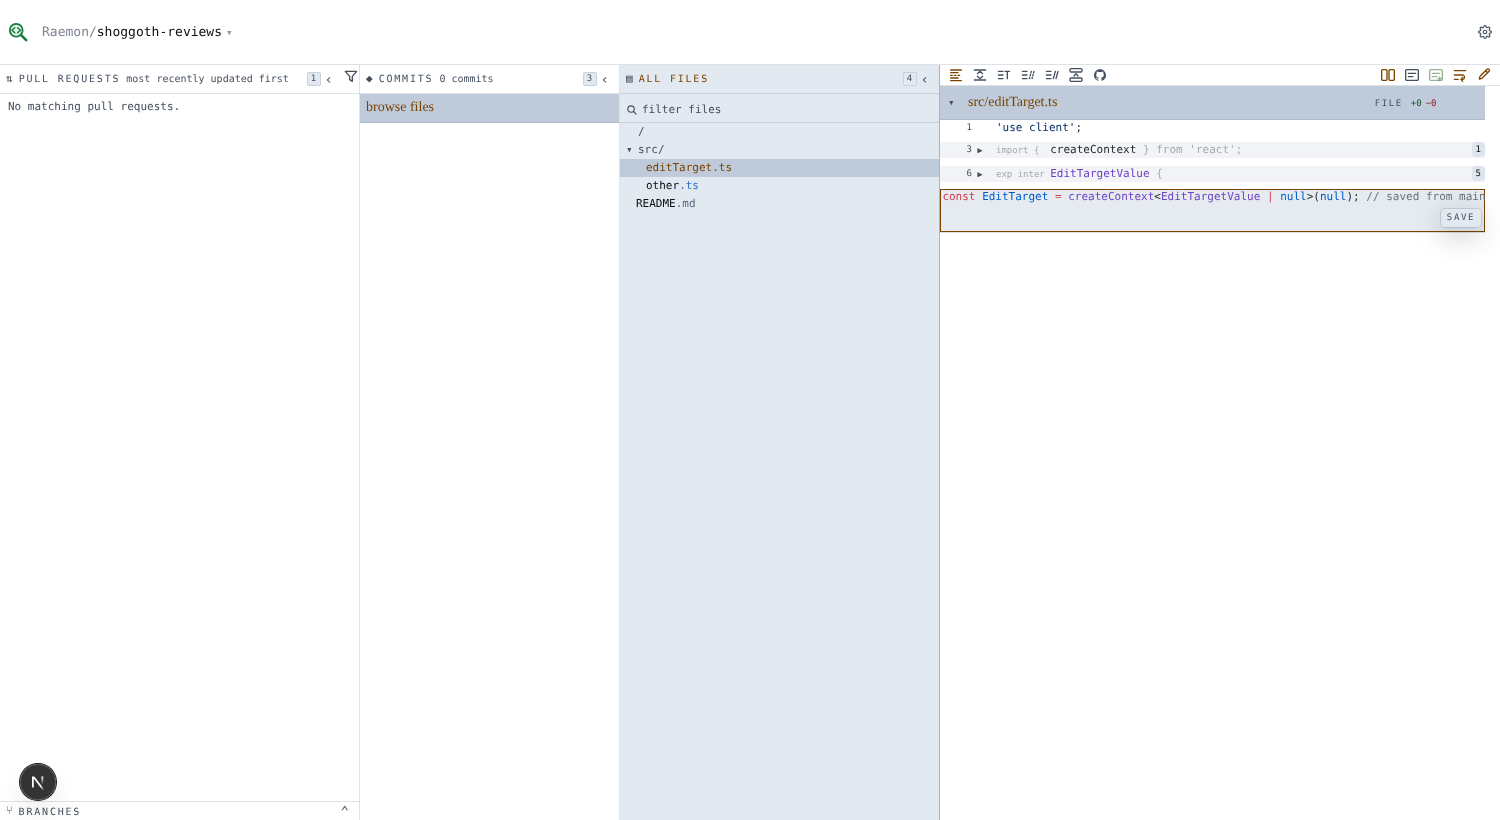
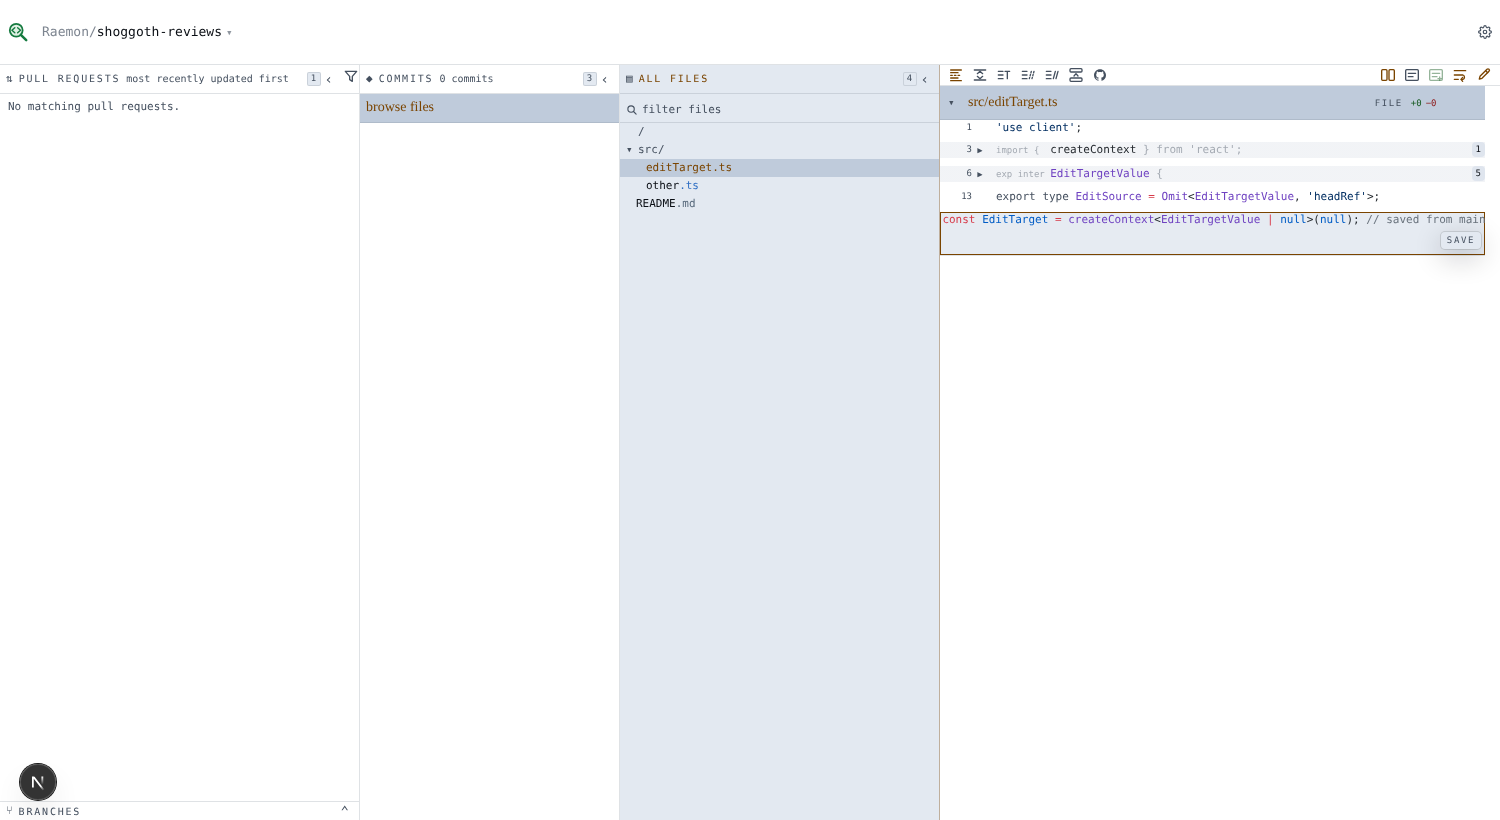
Offer main-branch editing only to pushers; tidy edit plumbing
Gate the all-files editor on the repository's push permission, always
reset the hunk editor after a refresh, and share the contents URL helper.

Claude-Session: https://claude.ai/code/session_01Wrqq5m96hAuHyC7tVPyptK

Changed region(s): [[0.6133, 0.2134, 1.0, 0.3354]]

diff --git a/src/features/pull-requests/RepoFileReader.tsx b/src/features/pull-requests/RepoFileReader.tsx
@@ -2,7 +2,6 @@
 
 import { useMemo } from 'react';
 import { DiffPanes } from './DiffPanes';
-import type { EditTargetValue } from './editTarget';
 import { isImagePath } from './imageFiles';
 import { fileTextPath } from './pullPaths';
 import type { FileText } from './pullRequests';
@@ -32,16 +31,24 @@ export function RepoFileReader({
   const wantsText = !isImagePath(path);
   const route = wantsText ? fileTextPath(owner, repo, refName, path) : null;
   const { data, error, reload } = useCachedJson<FileText>(route, token, ready);
-  // A commit moves refName; without this the open editor unmounts while the new text loads.
+  // Keeps the editor mounted while text for the post-commit refName loads.
   const text = useLastKnown(data, path);
   const fileSet = useMemo(() => readableFileSet(refName, path, wantsText, text), [refName, path, wantsText, text]);
-  const edits = reloadFiles ? defaultBranchEdits(() => showCommitted(reloadFiles, owner, repo, path, token)) : null;
+  const onCommitted = reloadFiles && (() => refreshAfterCommit(reloadFiles, owner, repo, path, token));
 
   if (error) return <PaneStatusLine tone="error" className="flex-1" onRetry={reload}>{error}</PaneStatusLine>;
   if (wantsText && text?.text === null) return <PaneStatusLine tone="dim" className="flex-1">File too large to show.</PaneStatusLine>;
   return (
     <ReviewThreadProvider owner={owner} repo={repo} number={null}>
-      <DiffPanes owner={owner} repo={repo} fileSet={fileSet} files={fileSet?.files ?? []} selected={path} sortable={false} edits={edits} />
+      <DiffPanes
+        owner={owner}
+        repo={repo}
+        fileSet={fileSet}
+        files={fileSet?.files ?? []}
+        selected={path}
+        sortable={false}
+        editSource={onCommitted && { pull: null, onCommitted }}
+      />
     </ReviewThreadProvider>
   );
 }
@@ -51,11 +58,7 @@ function readableFileSet(refName: string, path: string, wantsText: boolean, data
   return data?.text == null ? null : wholeFileSet(refName, path, data.text);
 }
 
-function defaultBranchEdits(onCommitted: () => Promise<void>): Omit<EditTargetValue, 'headRef'> {
-  return { pull: null, onCommitted };
-}
-
-async function showCommitted(
+async function refreshAfterCommit(
   reloadFiles: () => Promise<RepoFileSet>,
   owner: string,
   repo: string,

diff --git a/src/features/pull-requests/DiffPanes.tsx b/src/features/pull-requests/DiffPanes.tsx
@@ -10,7 +10,7 @@ import { DiffFileSection } from './DiffFileSection';
 import { DiffLayoutToggle } from './DiffLayoutToggle';
 import type { FolderHeading } from './fileTreeNodes';
 import { FolderHeadingBar } from './FolderHeading';
-import { EditTarget, type EditTargetValue } from './editTarget';
+import { EditTarget, type EditSource } from './editTarget';
 import { ImageThumbnailStrip } from './ImageThumbnailStrip';
 import { imageFilesOf, isImagePath } from './imageFiles';
 import type { ChangedFile, ChangedFileSet } from './pullRequests';
@@ -37,7 +37,7 @@ export function DiffPanes({
   fileSet,
   files,
   selected,
-  edits = null,
+  editSource = null,
   sortable = true,
   headings,
   ref,
@@ -47,7 +47,7 @@ export function DiffPanes({
   fileSet: ChangedFileSet | null;
   files: ChangedFile[];
   selected: string | null;
-  edits?: Omit<EditTargetValue, 'headRef'> | null;
+  editSource?: EditSource | null;
   sortable?: boolean;
   headings?: ReadonlyMap<string, FolderHeading[]>;
   ref?: Ref<DiffPanesHandle>;
@@ -90,7 +90,7 @@ export function DiffPanes({
   if (!fileSet) return <PaneStatusLine tone="dim" className="flex-1">Loading…</PaneStatusLine>;
   if (files.length === 0) return <PaneStatusLine tone="dim" className="flex-1">No files changed.</PaneStatusLine>;
   return (
-    <EditTarget value={edits && { ...edits, headRef: fileSet.headRef }}>
+    <EditTarget value={editSource && { ...editSource, headRef: fileSet.headRef }}>
       <DefinitionPeekProvider owner={owner} repo={repo} fileSet={fileSet}>
         <div className="flex min-h-0 flex-1 flex-col">
           <DiffLayoutToggle sortable={sortable} filesOpen={filesOpen} onToggleAllFiles={() => setAllFiles(!filesOpen)} />

diff --git a/src/features/pull-requests/RepoFilesBrowser.tsx b/src/features/pull-requests/RepoFilesBrowser.tsx
@@ -15,7 +15,7 @@ import type { ChangeSummary } from './pullRequests';
 import { useRepoFiles } from './repoFileStore';
 import { ResizableColumn, useCollapsibleColumn } from './ResizableColumn';
 import { useStickyColumn } from './stickyColumns';
-import { useDefaultBranchChange } from './useDefaultBranch';
+import { useDefaultBranchChange, useRepoSummary } from './useDefaultBranch';
 import { useRepoFileTree, type RepoFileTree } from './useRepoFileTree';
 
 const BROWSE_ROW = { title: 'browse files', counts: false };
@@ -39,6 +39,7 @@ export function RepoFilesBrowser({ owner, repo }: { owner: string; repo: string 
     onActivate: tree.activateItem,
   });
   const fileSet = repoFiles.fileSet;
+  const canPush = useRepoSummary(owner, repo)?.canPush ?? false;
   const reloadFiles = () => {
     void branchChange.reload().catch(() => {});
     return repoFiles.reload();
@@ -88,7 +89,7 @@ export function RepoFilesBrowser({ owner, repo }: { owner: string; repo: string 
           fileSet={fileSet}
           tree={tree}
           item={browsed}
-          reloadFiles={reloadFiles}
+          reloadFiles={canPush ? reloadFiles : undefined}
         />
       </div>
     </div>
@@ -124,7 +125,7 @@ function BrowsePane({
   fileSet: RepoFileSet | null;
   tree: RepoFileTree;
   item: string | null;
-  reloadFiles: () => Promise<RepoFileSet>;
+  reloadFiles?: () => Promise<RepoFileSet>;
 }) {
   if (commit !== WHOLE_CHANGE) return <CommitDiffReader owner={owner} repo={repo} sha={commit} />;
   if (item === null || fileSet === null) return <p className="px-2 py-1 text-[11px] text-ink-dim">Pick a file or folder to read it here.</p>;

diff --git a/src/features/pull-requests/pullRequests.ts b/src/features/pull-requests/pullRequests.ts
@@ -352,7 +352,7 @@ export async function commitFileEdit(
 export async function commitDefaultBranchEdit(owner: string, name: string, edit: FileEdit): Promise<EditResult> {
   requireGithubUser('committing');
   const branch = await defaultBranch(owner, name, true);
-  return commitSplicedFile(owner, name, branch, `${API}/repos/${owner}/${name}/contents/${encodePath(edit.path)}`, edit);
+  return commitSplicedFile(owner, name, branch, contentsUrl(`${owner}/${name}`, edit.path), edit);
 }
 
 async function commitSplicedFile(
@@ -401,7 +401,7 @@ async function editableFile(
   if (!changed.some((file) => file.filename === path)) {
     throw new GithubRequestError(422, `${path} is not among the files this pull request changes`);
   }
-  return { contents: `${API}/repos/${target}/contents/${encodePath(path)}`, branch: pull.head.ref };
+  return { contents: contentsUrl(target, path), branch: pull.head.ref };
 }
 
 export async function openPullAtHead(
@@ -453,6 +453,10 @@ function stripReturn(line: string): string {
 
 function staleMessage(path: string): string {
   return `${path} has changed on the branch since this diff loaded; reload before continuing`;
+}
+
+function contentsUrl(fullName: string, path: string): string {
+  return `${API}/repos/${fullName}/contents/${encodePath(path)}`;
 }
 
 function encodePath(path: string): string {

diff --git a/src/features/pull-requests/useHunkEdit.ts b/src/features/pull-requests/useHunkEdit.ts
@@ -1,7 +1,7 @@
 'use client';
 
 import { useEffect, useState } from 'react';
-import { commitMessageFor, editableBlockAt, editSubject, type BlockBounds, type EditableBlock } from './editableBlocks';
+import { commitMessageFor, editableBlockAt, editLabel, type BlockBounds, type EditableBlock } from './editableBlocks';
 import type { EditTargetValue } from './editTarget';
 import { defaultBranchEditPath, pullEditPath } from './pullPaths';
 import type { DiffRow } from './splitDiff';
@@ -68,7 +68,7 @@ export function useHunkEdit({
   function askToCommit() {
     if (!edit || !target || committing) return;
     if (edit.draft === edit.block.text) close();
-    else setMessage(commitMessageFor(editSubject(target.pull, filename), edit.block.text, edit.draft));
+    else setMessage(commitMessageFor(editLabel(target.pull, filename), edit.block.text, edit.draft));
   }
 
   // Optimistic: dismiss the modal right away and leave the editor showing the
@@ -87,9 +87,12 @@ export function useHunkEdit({
       setCommitting(false);
       return;
     }
-    if (refresh) await refresh();
-    close();
-    setCommitting(false);
+    try {
+      if (refresh) await refresh();
+    } finally {
+      close();
+      setCommitting(false);
+    }
   }
 
   return {

diff --git a/src/features/pull-requests/useDefaultBranch.ts b/src/features/pull-requests/useDefaultBranch.ts
@@ -7,11 +7,14 @@ import type { RepoSummary } from '@/features/codebases/repoDirectory';
 import { useGithubToken, useStoreReady } from '@/features/sources/sourceStore';
 import { useCachedJson, type CachedJson } from '@/features/sources/useCachedJson';
 
-export function useDefaultBranch(owner: string, repo: string): string | null {
+export function useRepoSummary(owner: string, repo: string): RepoSummary | null {
   const ready = useStoreReady();
   const token = useGithubToken();
-  const { data } = useCachedJson<RepoSummary>(repoSummaryPath(owner, repo), token, ready);
-  return data?.defaultBranch || null;
+  return useCachedJson<RepoSummary>(repoSummaryPath(owner, repo), token, ready).data;
+}
+
+export function useDefaultBranch(owner: string, repo: string): string | null {
+  return useRepoSummary(owner, repo)?.defaultBranch || null;
 }
 
 export function useDefaultBranchChange(owner: string, repo: string): CachedJson<ChangeSummary> {

diff --git a/src/features/codebases/repoDirectory.ts b/src/features/codebases/repoDirectory.ts
@@ -10,6 +10,7 @@ export interface RepoSummary {
   updatedAt: string;
   private: boolean;
   defaultBranch: string;
+  canPush: boolean;
 }
 
 export interface ViewerRepos {
@@ -25,6 +26,7 @@ interface GithubRepo {
   pushed_at: string;
   private: boolean;
   default_branch: string;
+  permissions?: { push?: boolean };
 }
 
 const API = 'https://api.github.com';
@@ -79,5 +81,6 @@ function summarize(repo: GithubRepo): RepoSummary {
     updatedAt: repo.pushed_at,
     private: repo.private,
     defaultBranch: repo.default_branch,
+    canPush: repo.permissions?.push ?? false,
   };
 }

diff --git a/src/features/pull-requests/editableBlocks.ts b/src/features/pull-requests/editableBlocks.ts
@@ -87,7 +87,7 @@ export function commitMessageFor(subject: string, before: string, after: string)
   return `Minor change to ${subject}: ${snippet(removed)} -> ${snippet(added)}`;
 }
 
-export function editSubject(pull: { title: string; number: number } | null, filename: string): string {
+export function editLabel(pull: { title: string; number: number } | null, filename: string): string {
   return pull ? `${pull.title.replace(/\s+/g, ' ').trim()} (#${pull.number})` : filename;
 }
 

diff --git a/src/features/codebases/CodebaseList.tsx b/src/features/codebases/CodebaseList.tsx
@@ -82,7 +82,7 @@ function sameRepo(repo: RepoRef, other: RepoRef | null): boolean {
 }
 
 function unlistedRepo({ owner, name }: RepoRef): SidebarRepo {
-  return { owner, name, description: '', language: '', updatedAt: '', private: false, defaultBranch: '', source: null };
+  return { owner, name, description: '', language: '', updatedAt: '', private: false, defaultBranch: '', canPush: false, source: null };
 }
 
 function SourceNotice({ group }: { group: SidebarGroup }) {

diff --git a/src/features/codebases/sidebarGroups.ts b/src/features/codebases/sidebarGroups.ts
@@ -79,7 +79,7 @@ function mergeGroup(groups: Map<string, SidebarGroup>, group: SidebarGroup): voi
 }
 
 function placeholder(owner: string, name: string): RepoSummary {
-  return { owner, name, description: '', language: '', updatedAt: '', private: false, defaultBranch: '' };
+  return { owner, name, description: '', language: '', updatedAt: '', private: false, defaultBranch: '', canPush: false };
 }
 
 export function sidebarRepos(groups: SidebarGroup[]): SidebarRepo[] {

diff --git a/src/features/pull-requests/ReviewWorkspace.tsx b/src/features/pull-requests/ReviewWorkspace.tsx
@@ -290,7 +290,7 @@ function Workspace({
                       fileSet={fileSet}
                       files={files}
                       selected={path}
-                      edits={editableFiles && { pull: editableFiles, onCommitted: reloadInPlace }}
+                      editSource={editableFiles && { pull: editableFiles, onCommitted: reloadInPlace }}
                     />
                   </div>
                 )}

diff --git a/src/features/pull-requests/editTarget.ts b/src/features/pull-requests/editTarget.ts
@@ -10,4 +10,6 @@ export interface EditTargetValue {
   onCommitted?: () => void | Promise<void>;
 }
 
+export type EditSource = Omit<EditTargetValue, 'headRef'>;
+
 export const EditTarget = createContext<EditTargetValue | null>(null);
